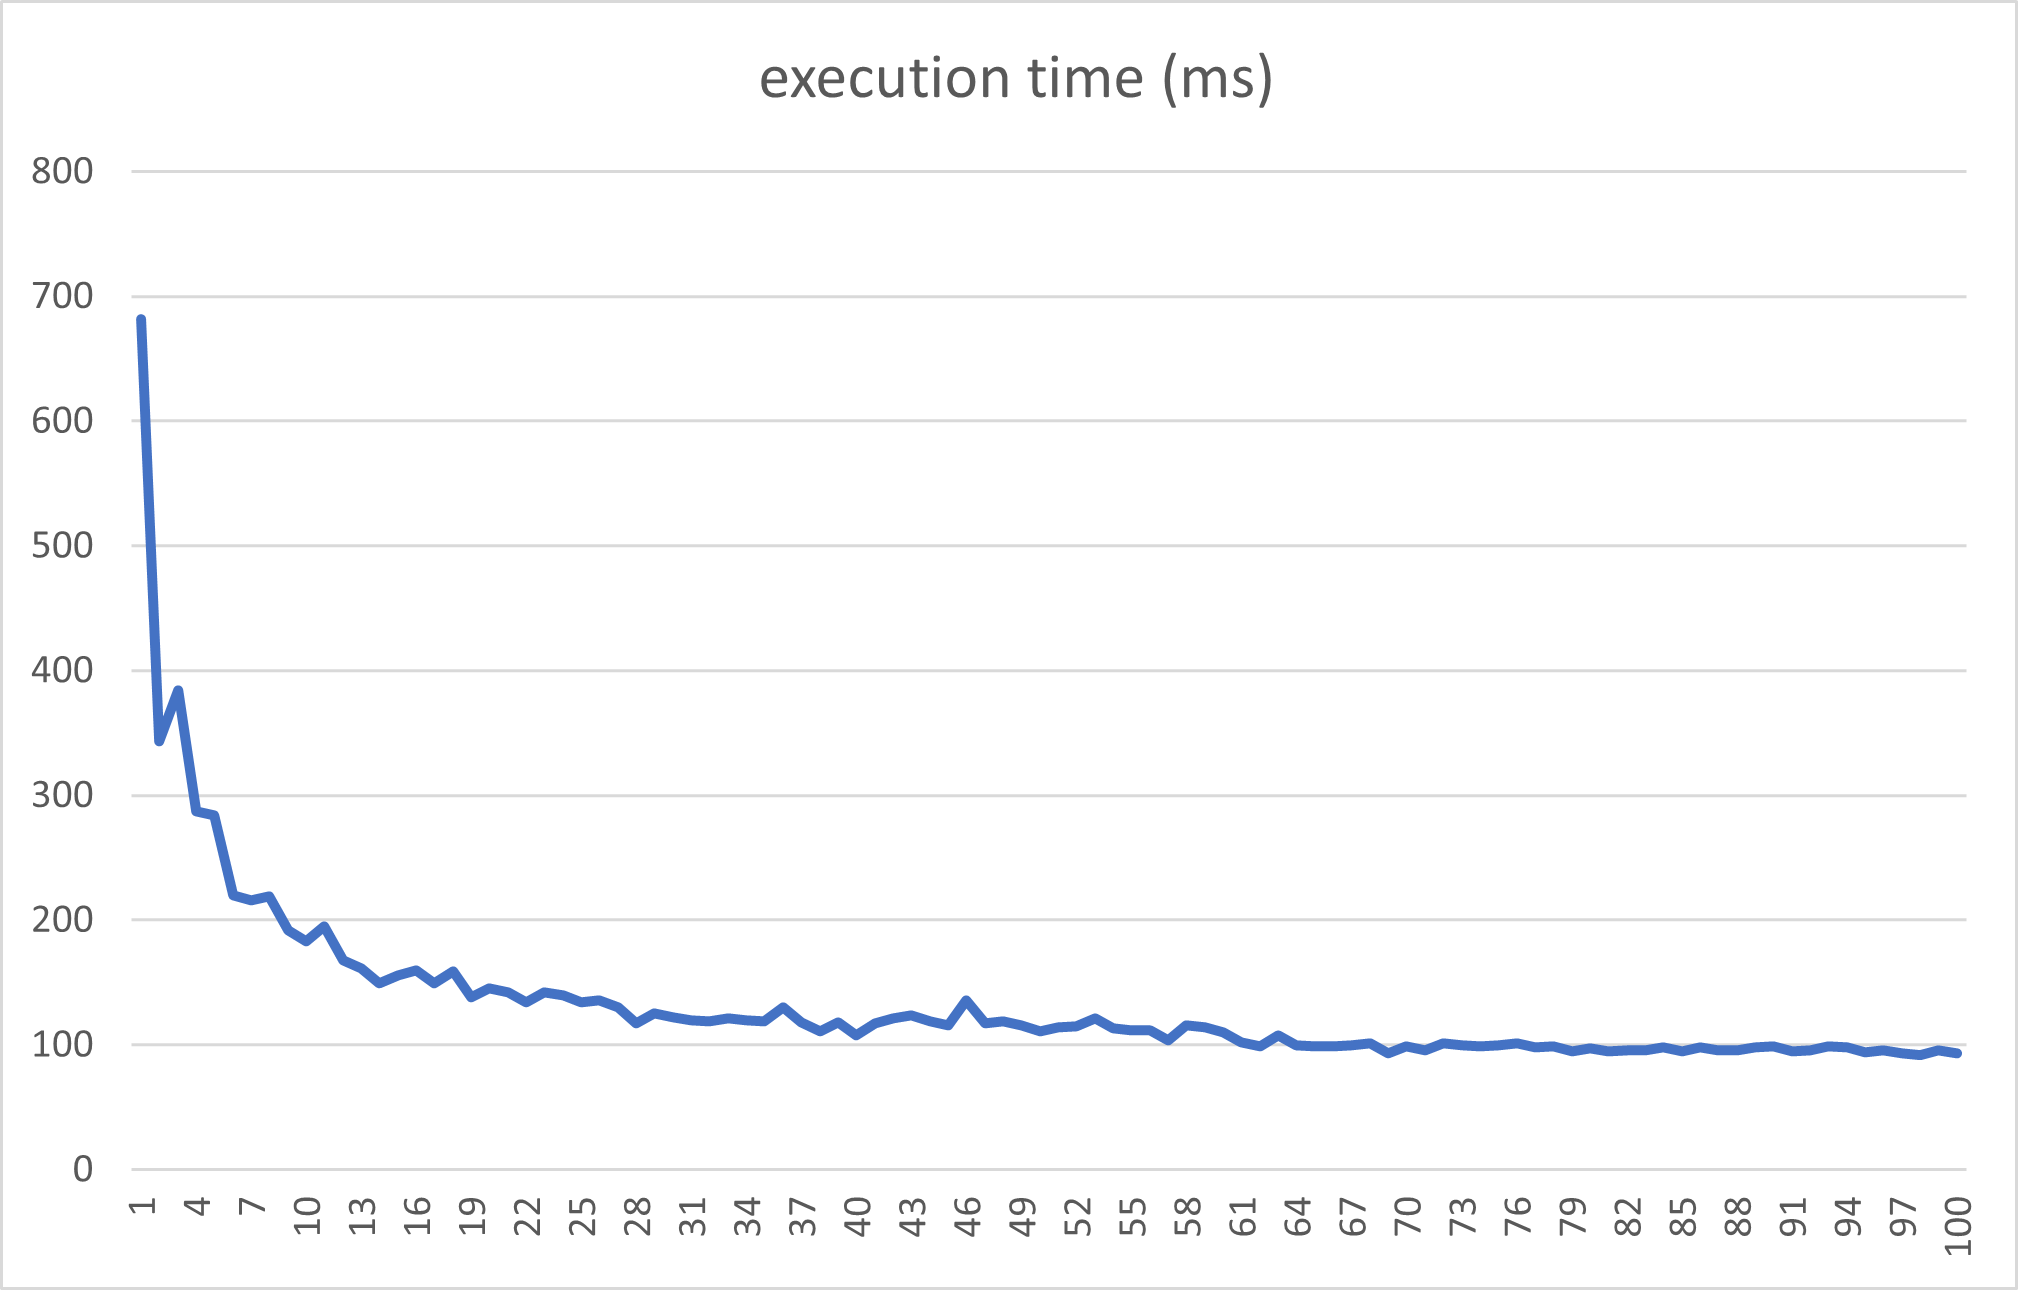
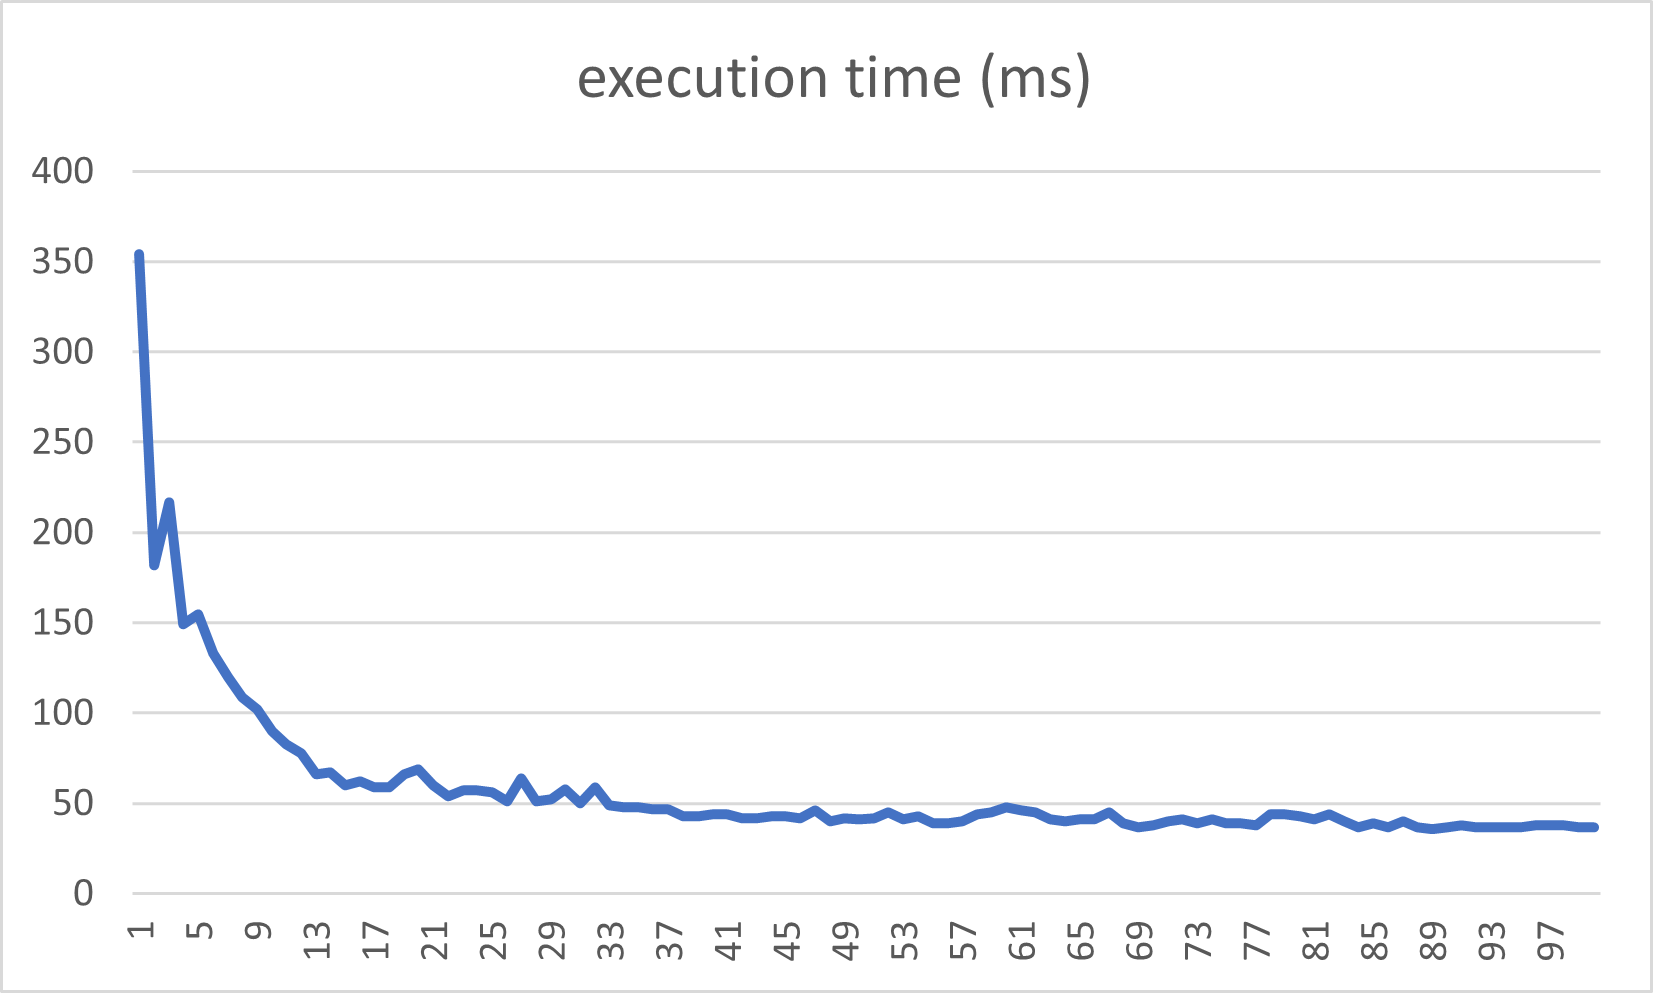
fixed measurement mistakes

diff --git a/main.cpp b/main.cpp
@@ -34,11 +34,13 @@ int main(int argc, char *argv[]) {
     long sumMs = 0;
     int numberExecutions = 100;
     for(int i = 0; i < numberExecutions; i++) {
-        // sumMs += mandelbrot(viewPort, window, iterations, "mandelbrot.tga");
-        sumMs += parallelMandelbrot(viewPort, window, iterations, "mandelbrot.tga", 20);
+        sumMs += mandelbrot(viewPort, window, iterations, "mandelbrot.tga");
+        // sumMs += parallelMandelbrot(viewPort, window, iterations, "mandelbrot.tga", 20);
     }
     long avgMs = sumMs / numberExecutions;
+    std::cout << "Average execution time: " << avgMs << "ms" << std::endl;
     */
+
 
     std::ofstream csv;
     csv.open ("performance.csv");
@@ -50,6 +52,9 @@ int main(int argc, char *argv[]) {
         csv << i << "," << avgTimeMs << "," << speedSingleThread/avgTimeMs << std::endl;
     }
     csv.close();
+
+    // mandelbrot(viewPort, window, iterations, "mandelbrot.tga");
+    // parallelMandelbrot(viewPort, window, iterations, "mandelbrot.tga", 100);
 
     return 0;
 }

diff --git a/Readme.md b/Readme.md
@@ -32,6 +32,9 @@ After computing all the bytes I push the thread-local vector into a global vecto
 the id for distributing chunks of work and pushing to the global vector helps me to ensure that the image gets set back
 together in the right order, which is exactly what I do next **outside** of the parallel block. Lastly I save the image.
 
+## Hardware
+Intel i7-9750H @2.6GHz; 6 Cores
+
 ## Comparison Sequential and Parallel Solution
 
 In main.cpp I have commented out the code I used to roughly measure the difference in performance. The comparison uses
@@ -40,7 +43,7 @@ average runtimes in ms:
 
 | sequential | parallel (20 threads) | Speedup |
 | --- | --- | --- |
-|  633 ms | 130 ms | 4.86 |
+|  358 ms | 54 ms | 6.63 |
 
 ## Speedup Quotient
 In main.cpp I also added a simple generation for a .csv file containing the speedup quotient from 1 to 100 threads.
